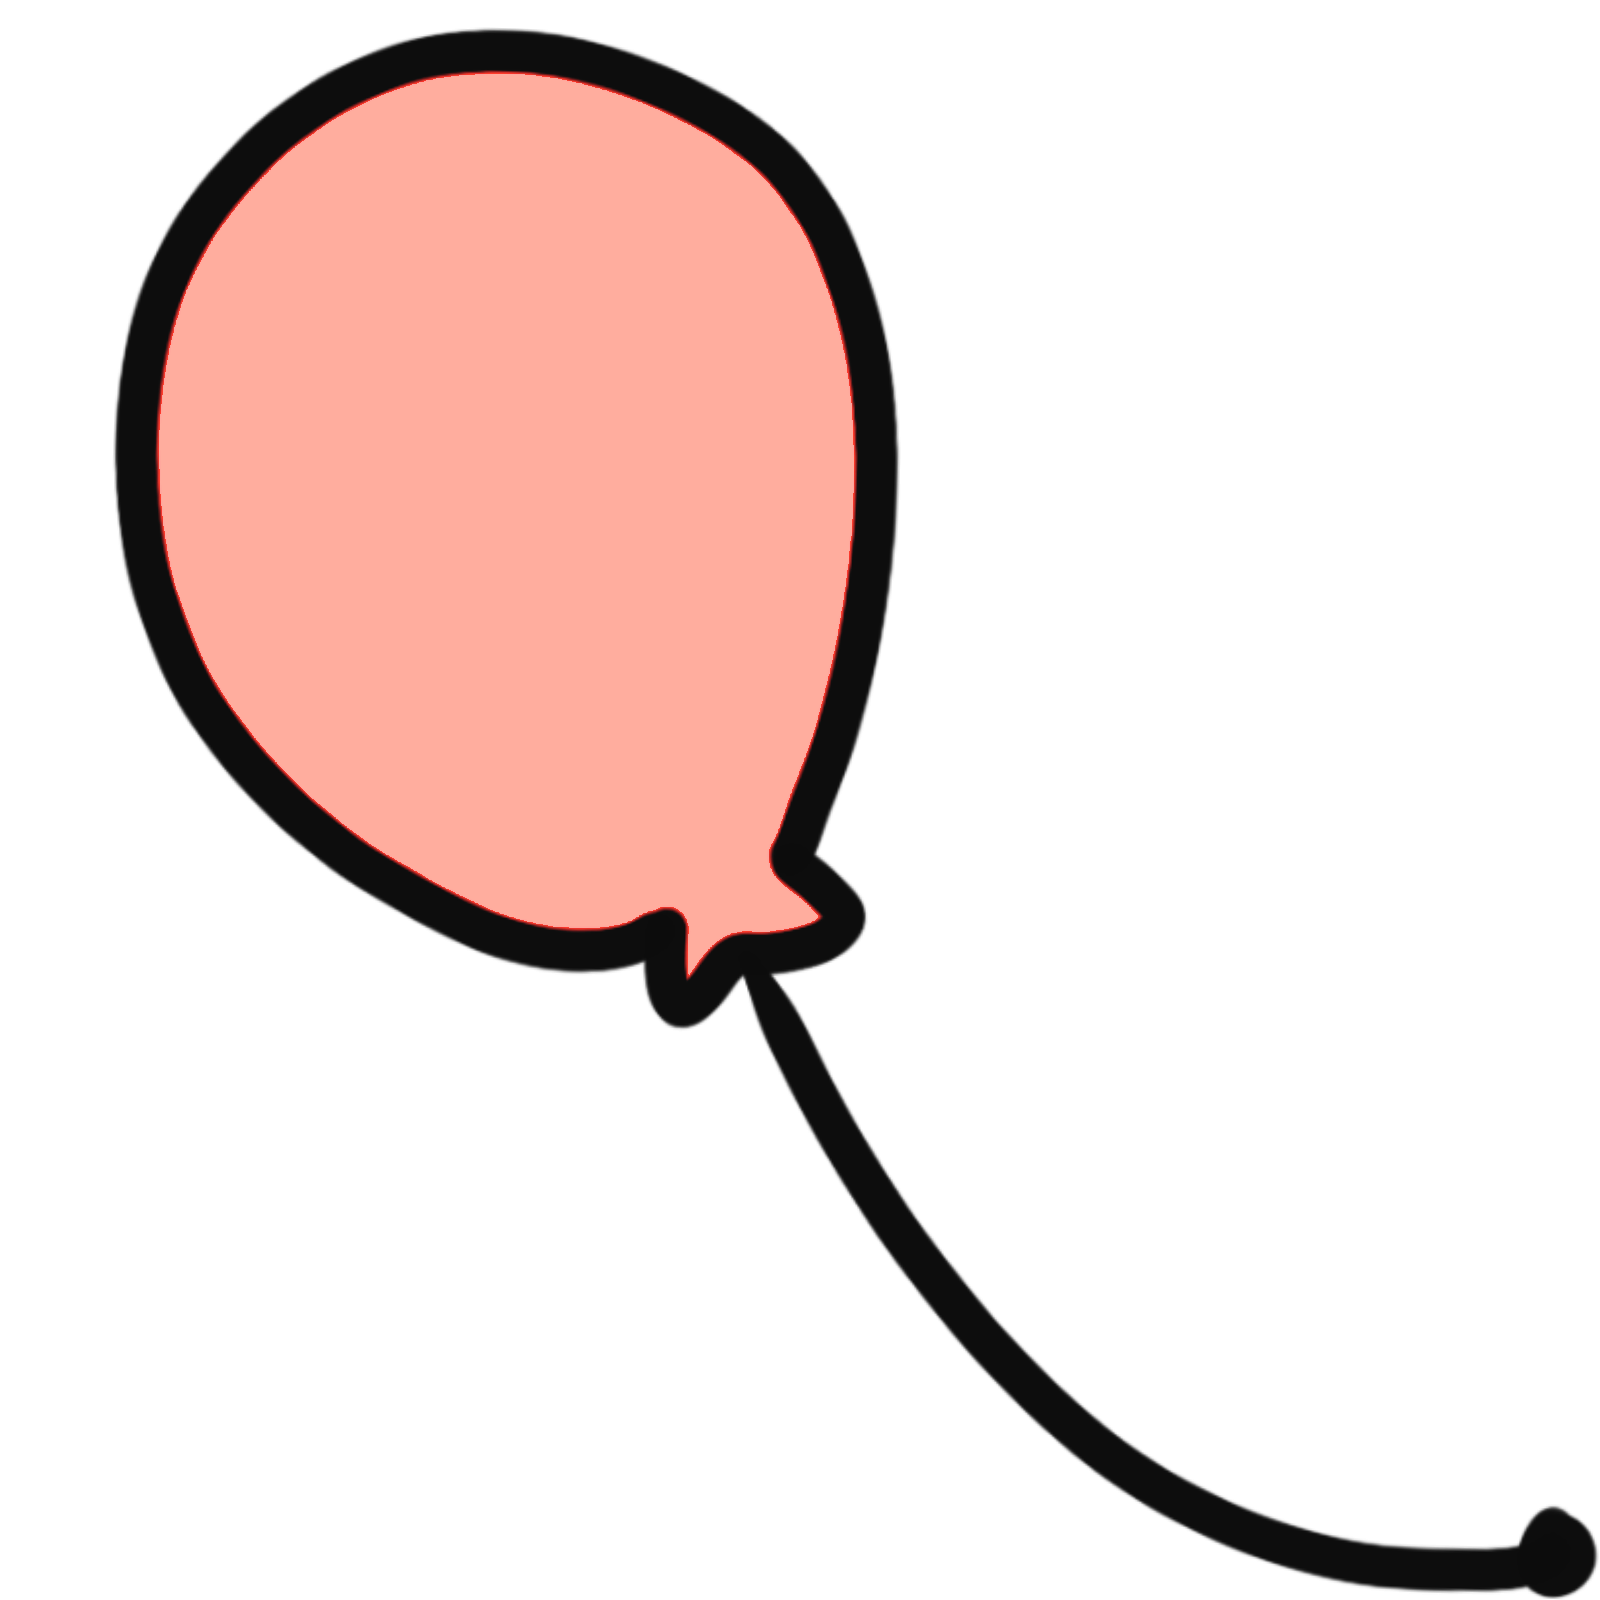
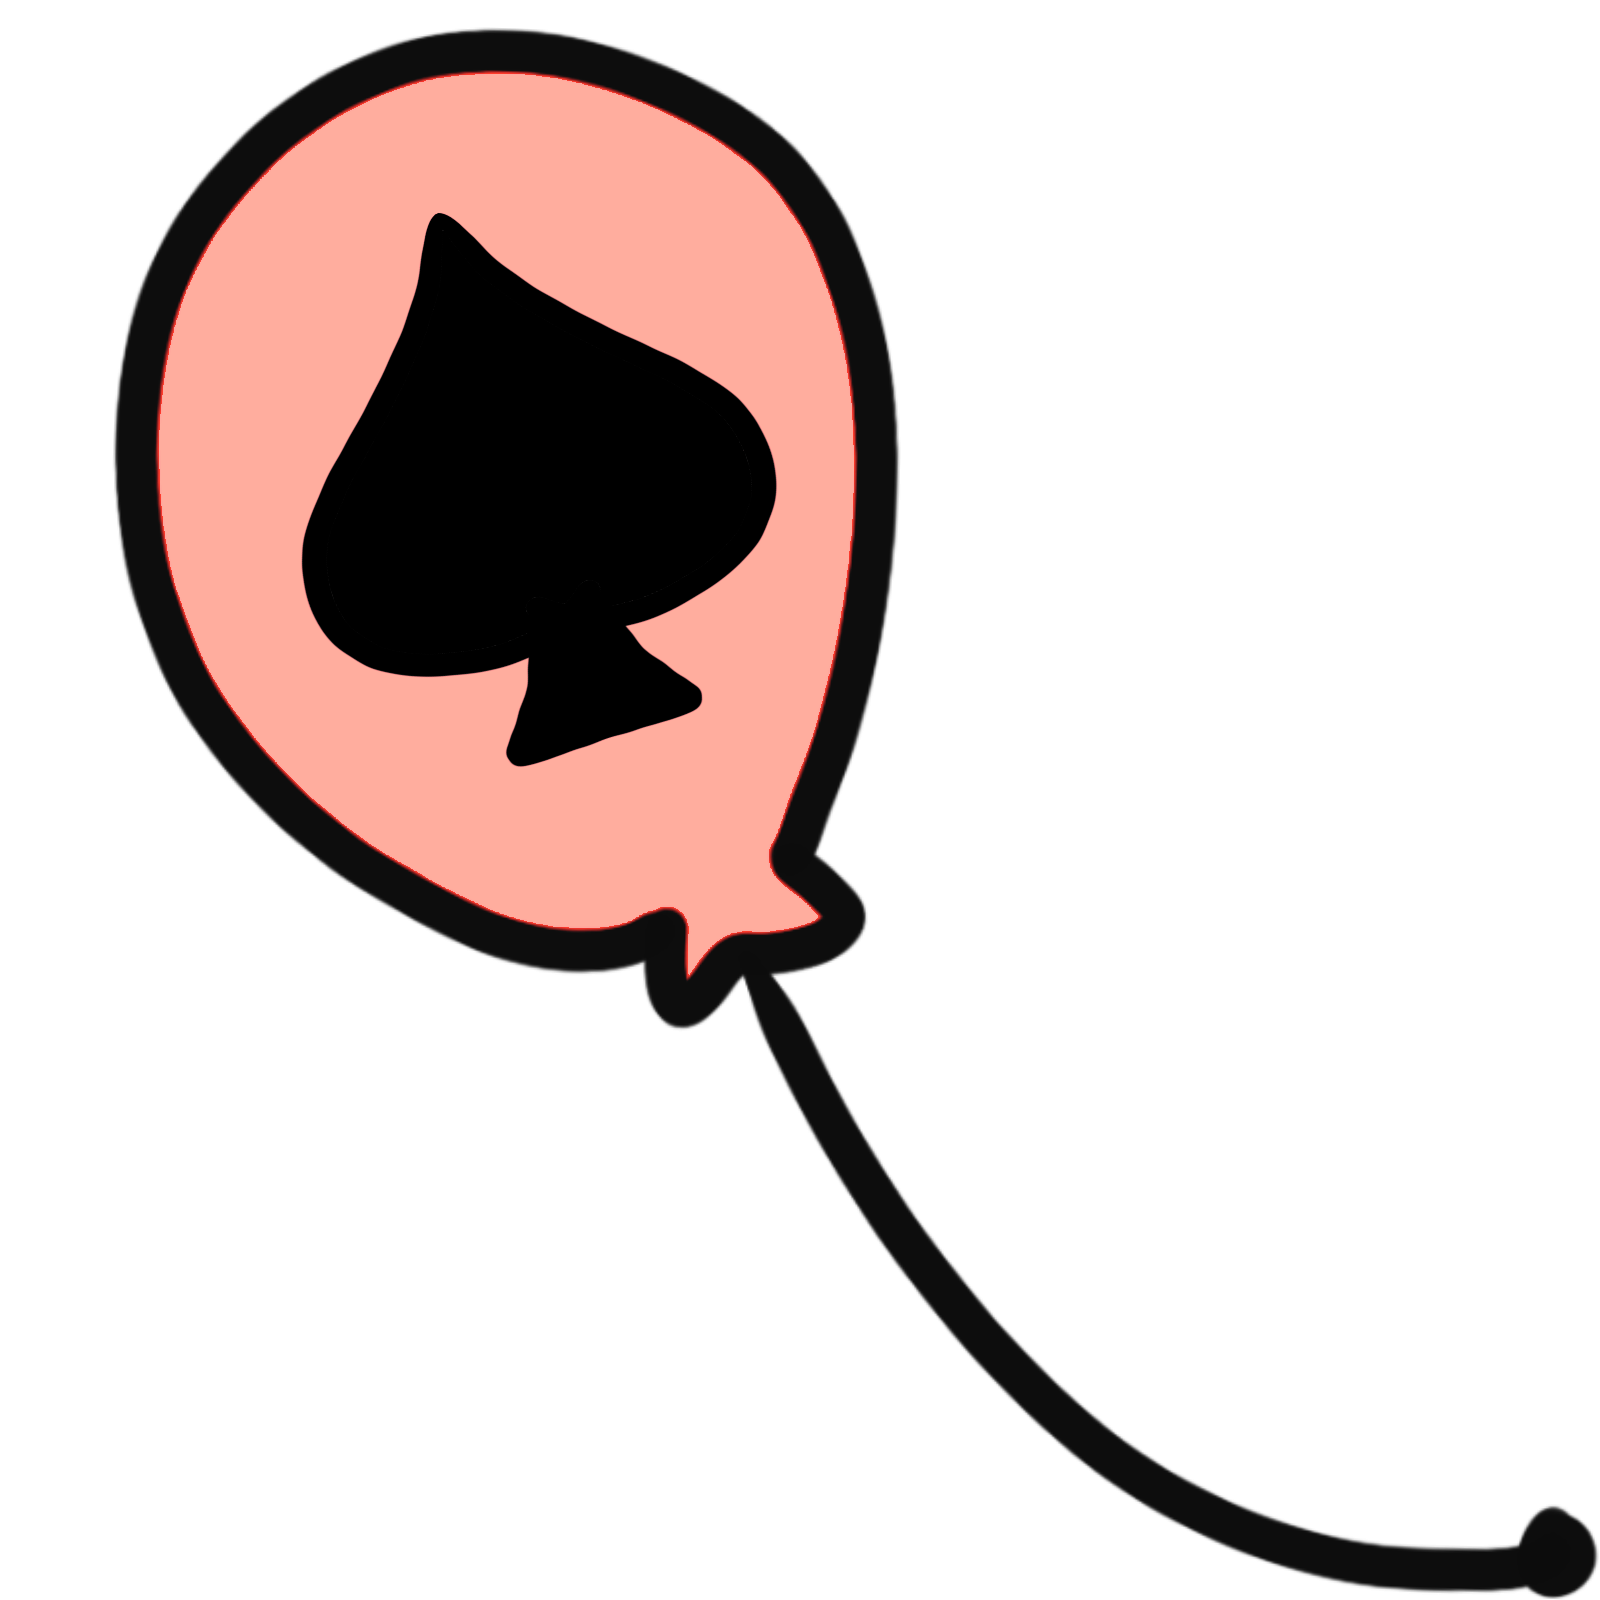
Visualise lethal genes

Changed region(s): [[0.1875, 0.125, 0.5, 0.5]]

diff --git a/simulator.js b/simulator.js
@@ -141,6 +141,28 @@ window.addEventListener("DOMContentLoaded", () => {
 
   const shrimpDataset = generateShrimpDataset();
 
+  // Track lethal overlay mode
+  let showLethalOverlay = false;
+
+  // Helper to generate lethal balloons HTML
+  function getLethalBalloons(lethal_alleles) {
+    if (!lethal_alleles) return '';
+    const balloons = [];
+    let idx = 0;
+    for (let i = 1; i <= 10; i++) {
+      if (lethal_alleles[String(i)] === true) {
+        // Each balloon gets a rotation to avoid overlap
+        const rotation = -25 + (idx * 18); // e.g. -25, -7, +11, +29, etc.
+        balloons.push(
+          `<img src="images/lethalBalloon${i}.png" class="lethal-balloon" style="position:absolute; top:0; left:0; width:48px; pointer-events:none; transform: rotate(${rotation}deg) translate(${idx*8}px, ${idx*6}px); z-index:2;">`
+        );
+        idx++;
+      }
+    }
+    return balloons.join('');
+  }
+
+  // Update createBoxContent to include lethal balloons if enabled
   function createBoxContent(sex) {
     // Filter shrimp by sex
     let shrimpList = shrimpDataset.filter(shrimp => shrimp.sex === sex);
@@ -156,9 +178,10 @@ window.addEventListener("DOMContentLoaded", () => {
     }
     return shrimpList.map(shrimp => ({
       content: `
-        <div class="image-container">
+        <div class="image-container" style="position:relative;">
           <img src="${shrimp.image}" alt="Shrimp">
           <div class="text-box">${shrimp.label}</div>
+          ${showLethalOverlay ? getLethalBalloons(shrimp.lethal_alleles) : ''}
         </div>
       `,
       backgroundColor: shrimp.color
@@ -326,8 +349,8 @@ window.addEventListener("DOMContentLoaded", () => {
       let allele1 = Math.random() < 0.5 ? motherAllele : false;
       let allele2 = Math.random() < 0.5 ? fatherAllele : false;
       // 10% chance to randomly set to true
-      if (Math.random() < 0.1) allele1 = true;
-      if (Math.random() < 0.1) allele2 = true;
+      if (Math.random() < 0.00) allele1 = true;
+      if (Math.random() < 0.00) allele2 = true;
       lethal_alleles[key] = [allele1, allele2];
     }
     return {
@@ -560,5 +583,28 @@ window.addEventListener("DOMContentLoaded", () => {
       if (lethal_alleles[key][0] && lethal_alleles[key][1]) return true;
     }
     return false;
+  }
+
+  // Add event listener for lethal overlay button
+  const showLethalBtn = document.getElementById('show-lethal-btn');
+  if (showLethalBtn) {
+    showLethalBtn.addEventListener('click', () => {
+      showLethalOverlay = !showLethalOverlay;
+      showLethalBtn.textContent = showLethalOverlay ? "Hide Lethal Genes" : "Show Lethal Genes";
+      // Rebuild carousel content to update overlays
+      const newLeft = createBoxContent("male");
+      leftBoxContent.length = 0;
+      leftBoxContent.push(...newLeft);
+      leftCarouselObj.currentBoxContent.length = 0;
+      leftCarouselObj.currentBoxContent.push(...newLeft);
+      leftCarouselObj.updateBoxContent();
+
+      const newRight = createBoxContent("female");
+      rightBoxContent.length = 0;
+      rightBoxContent.push(...newRight);
+      rightCarouselObj.currentBoxContent.length = 0;
+      rightCarouselObj.currentBoxContent.push(...newRight);
+      rightCarouselObj.updateBoxContent();
+    });
   }
 });

diff --git a/simulator.html b/simulator.html
@@ -39,6 +39,9 @@
     <button id="big-batch-btn" style="font-size:1.2em; padding:10px 24px; border-radius:8px; background:#06D6A0; color:#fff; border:none; cursor:pointer; box-shadow:0 2px 6px rgba(0,0,0,0.07); margin-left:12px;">
       Big Batch
     </button>
+    <button id="show-lethal-btn" style="font-size:1.2em; padding:10px 24px; border-radius:8px; background:#e63946; color:#fff; border:none; cursor:pointer; box-shadow:0 2px 6px rgba(0,0,0,0.07); margin-left:12px;">
+      Show Lethal Genes
+    </button>
   </div>
   <div class="egg-batch-genotype" style="display:none; text-align:center; margin-bottom:10px;"></div>
   <div class="egg-batch-grid" style="display:none; justify-content:center; margin-bottom:24px;"></div>

diff --git a/style.css b/style.css
@@ -278,3 +278,7 @@
     text-overflow: ellipsis;
     white-space: nowrap;
   }
+  .lethal-balloon {
+    z-index: 2;
+    pointer-events: none;
+  }
